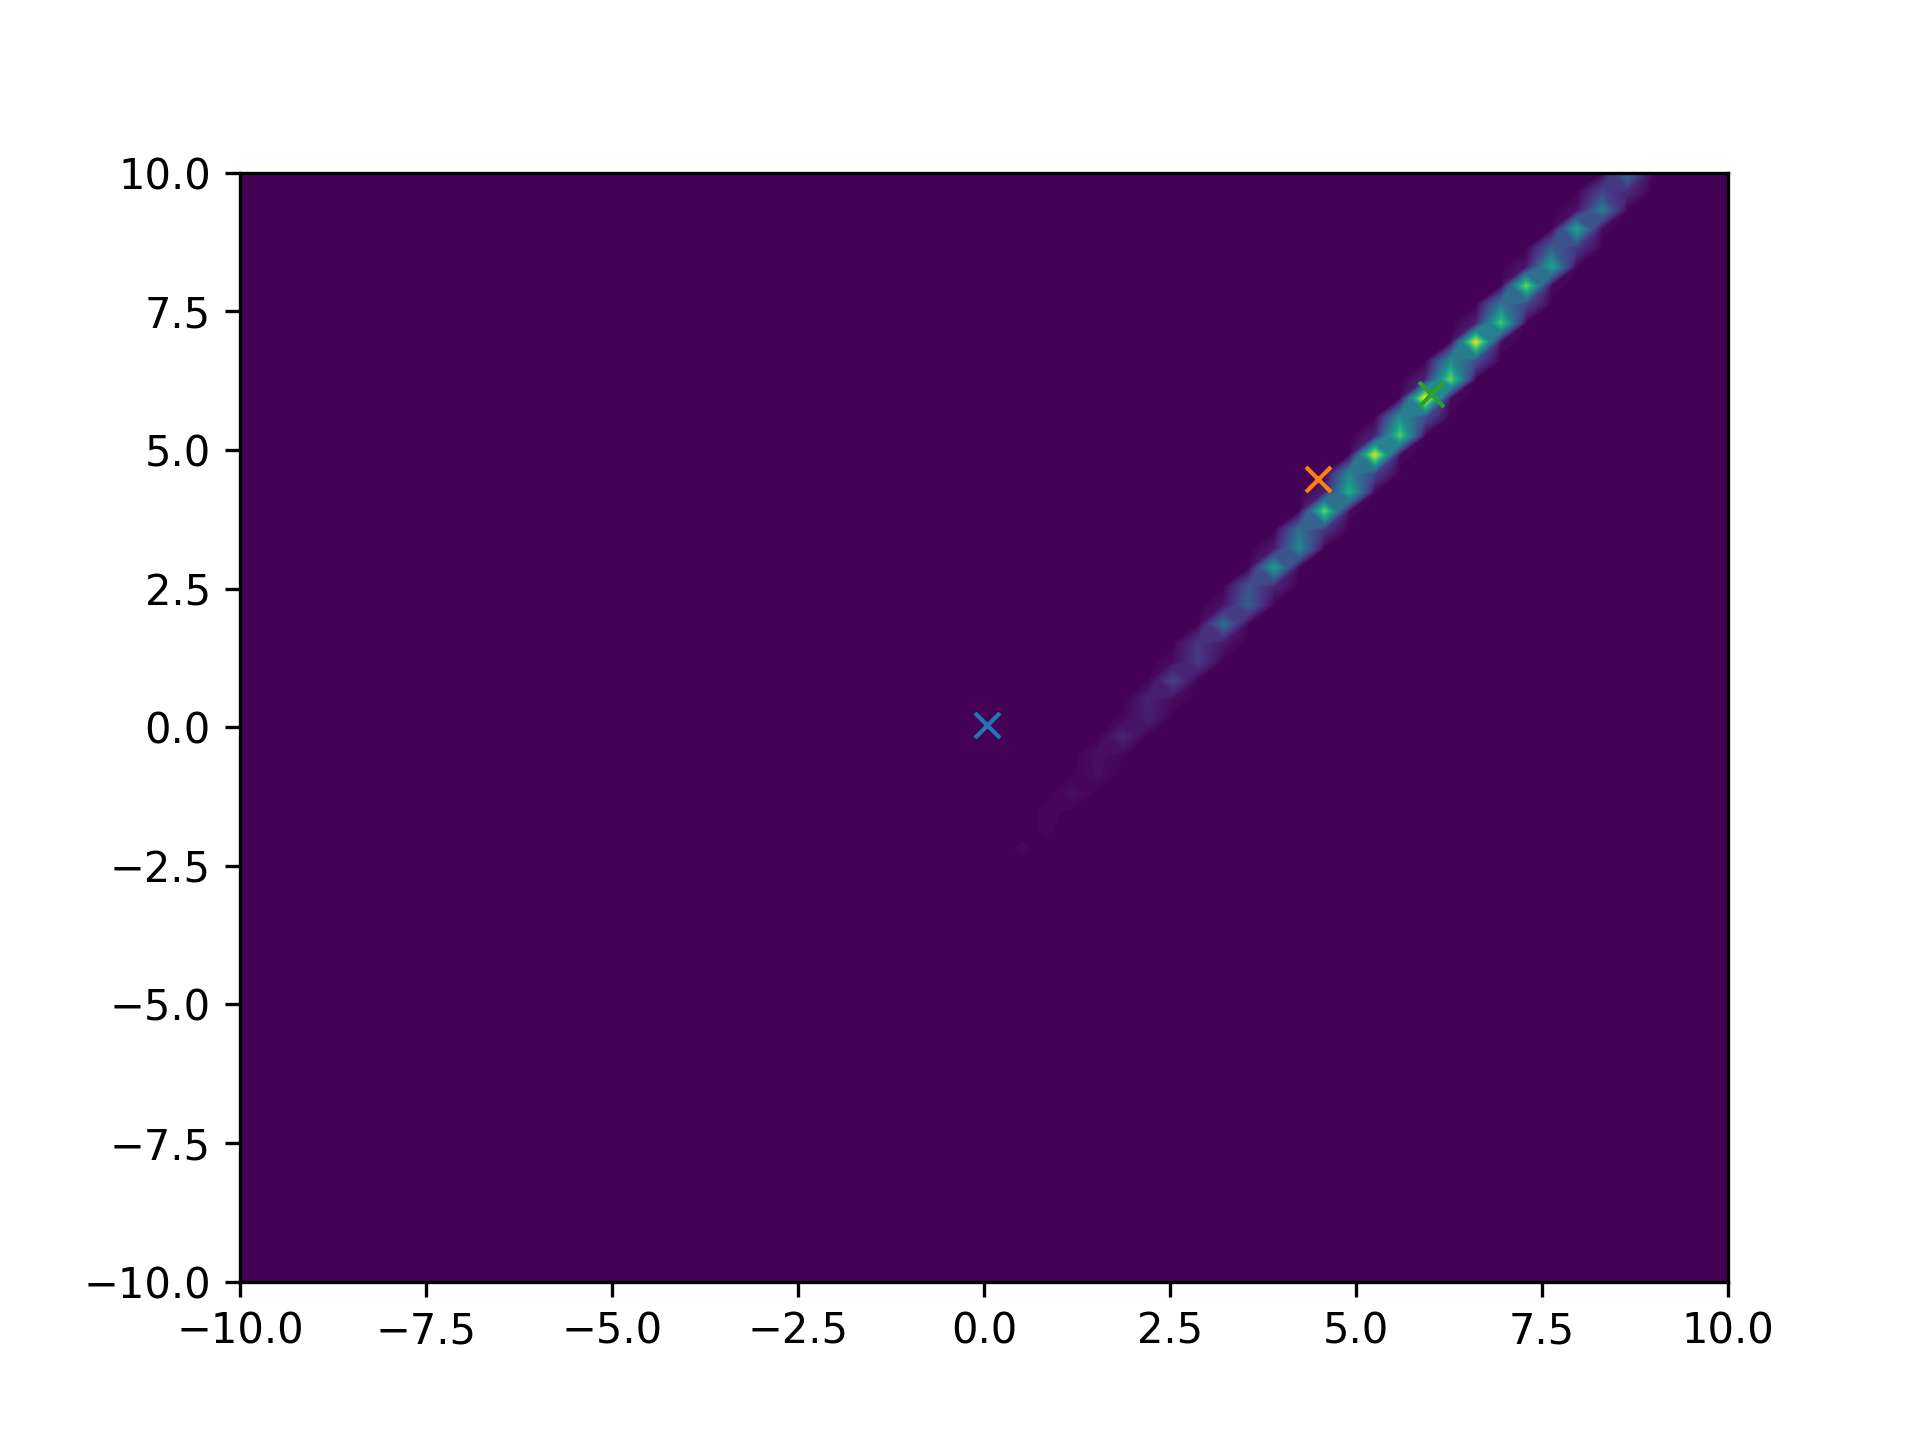
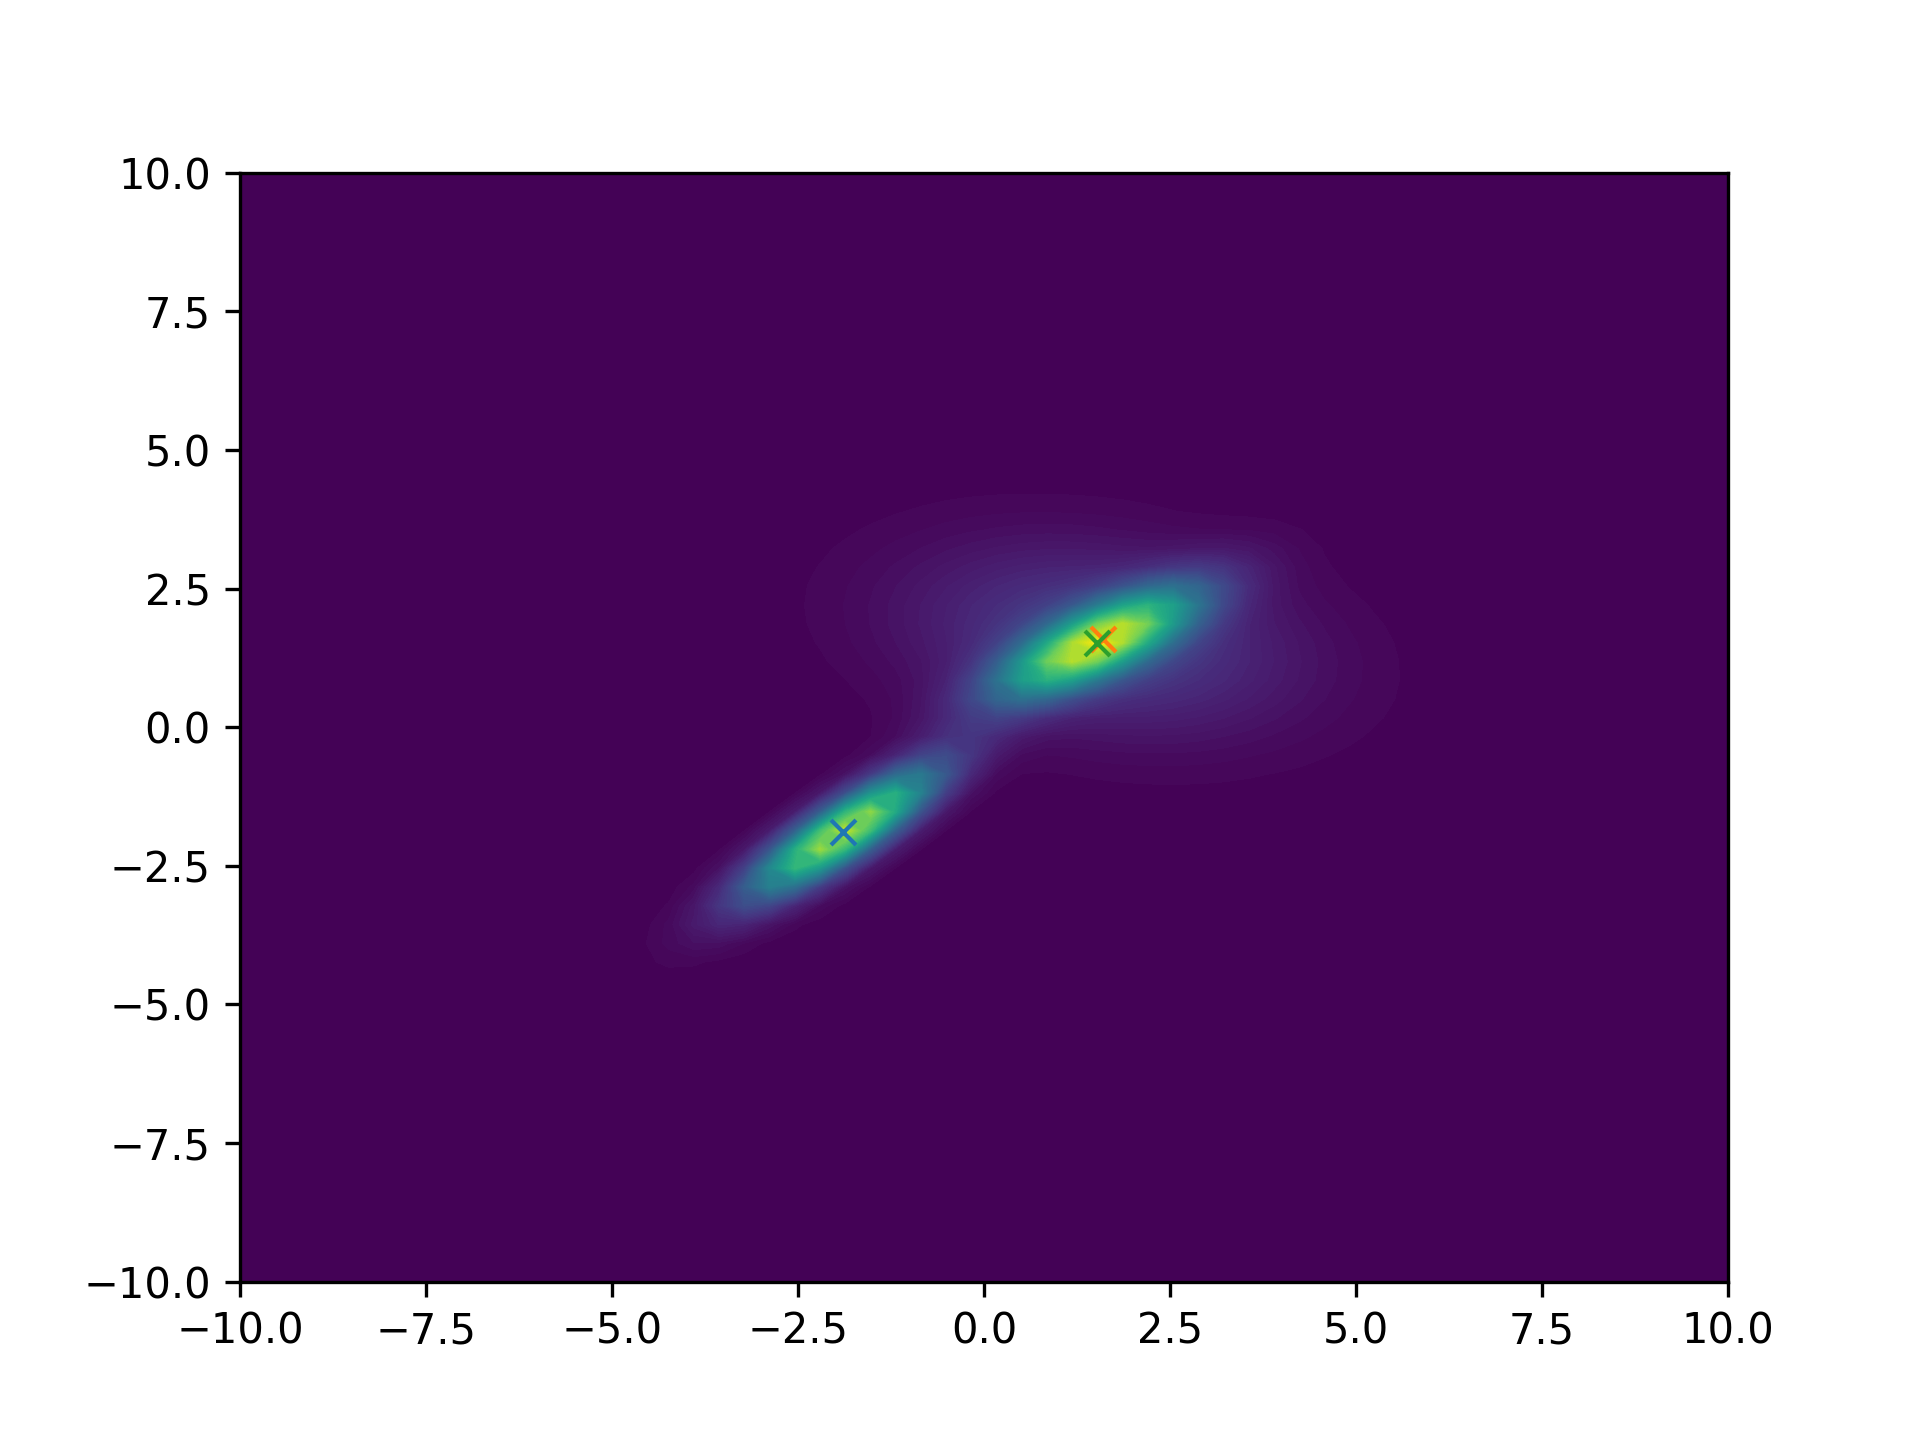
Check in.

Changed region(s): [[0.3438, 0.125, 0.875, 0.6562]]

diff --git a/exercise.06/main.py b/exercise.06/main.py
@@ -25,19 +25,21 @@ def show_gaussian_shit(means: np.array, covs: np.array):
     Y = np.linspace(-10, 10, N)
     X, Y = np.meshgrid(X, Y)
 
+    heatmap = np.zeros((len(X), len(Y)))
+
     plt.figure(1)
 
     for c in range(len(means)):
         mean = means[c]
         cov = covs[c]
 
-        Z = f(X, Y, mean, cov)
+        heatmap += f(X, Y, mean, cov)
 
-        # plt.figure(0)
         plt.plot(mean[0], mean[1], "x")
-        plt.contourf(X, Y, Z, 100)
 
-    plt.savefig("ml.exercise.06.gaussian.png", dpi=300)
+    plt.contourf(X, Y, heatmap, 100)
+
+    plt.savefig(f"ml.exercise.06.gaussian.png", dpi=300)
 
 
 def normal_distribution(x: np.array, mean: np.array, cov: np.array):
@@ -178,23 +180,24 @@ def em(k: int, training_data: np.array):
 
     m = training_data.shape[0]
 
-    for _ in range(1000):
+    for _ in range(1):
         r_ic = np.zeros((m, k))
-        r_i_sum = np.zeros((m, 1))
 
         for i in range(m):
             x = training_data[i]
             for c in range(k):
-                p = normal_distribution(x, mean_c[c], cov_c[c])
-                r_ic[i, c] = p
+                probability = normal_distribution(x, mean_c[c], cov_c[c])
+                r_ic[i, c] = probability
 
-            r_i_sum[i] = np.sum(r_ic[i])
-
-        r_ic = r_ic / r_i_sum
+            # r_ic[i] = r_ic[i] / np.sum(r_ic[i])
+            print(f"r_ic[{i}]")
+            print(r_ic[i])
 
         mc = np.zeros((k, 1))
         for c in range(k):
             mc[c] = np.sum(r_ic[:, c])
+            print(f"mc[{c}]")
+            print(mc[c])
 
         mean_c = np.zeros((k, 2))
         for c in range(k):
